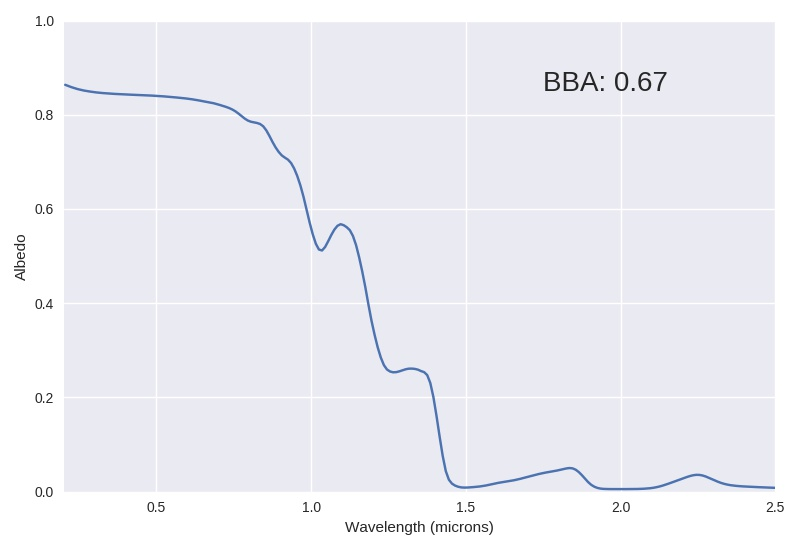
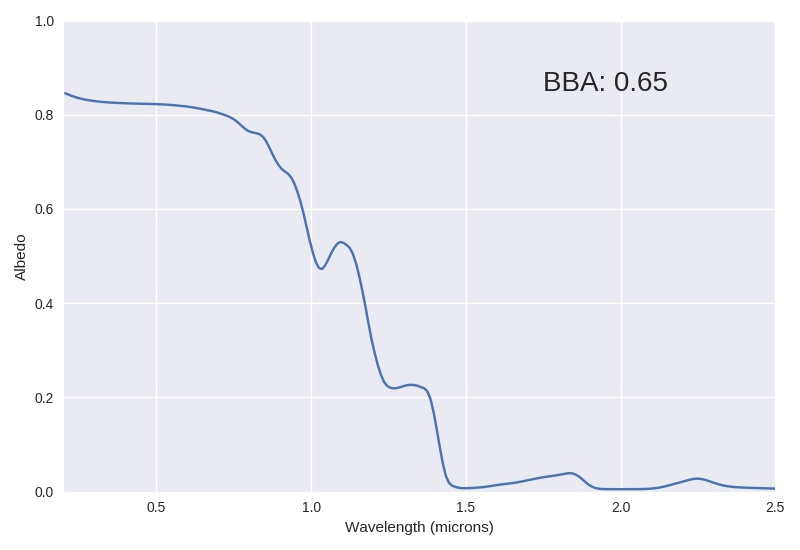
add new fields to app

diff --git a/react-app/src/App.js b/react-app/src/App.js
@@ -9,17 +9,21 @@ function App() {
   const [dz, setThickness] = useState()
   const [reff, setRadius] = useState()
   const [rho, setDensity] = useState()
+  const [bc, setBC] = useState()
+  const [glacier_algae, setGA] = useState()
+  const [snow_algae, setSA] = useState()
+  const [zenith, setZen] = useState()
 
-  // initial figure state
-  //setFigure("./outputs/albedo_default.jpg")
 
   async function runModel(){
     console.log("inside func");
-    console.log(layer_type, dz, reff, rho)
+    console.log(layer_type, dz, reff, rho, bc, glacier_algae, snow_algae, zenith)
 
     await fetch("http://localhost:5000/model", 
     {'method': 'POST', 
-    body: JSON.stringify({'lyr_typ': layer_type, 'dz': dz, 'r_eff': reff, 'rho': rho}),
+    body: JSON.stringify({'lyr_typ': layer_type, 'dz': dz, 
+      'r_eff': reff, 'rho': rho, 'bc': bc, 'glacier_algae': glacier_algae,
+      'snow_algae': snow_algae, 'zenith': zenith}),
     headers: {'Content-Type':'application/json'}
     });
 
@@ -65,7 +69,7 @@ function App() {
     
     
     <li style={{display: 'flex', justifyContent:'center', alignItems:'center', color: 'black',
-    position:"absolute", left:25, top: 180, color: 'black', fontSize: 18}}>
+    position:"absolute", left:25, top: 190, color: 'black', fontSize: 18}}>
       <p>Thickness (meters)&nbsp;&nbsp;&nbsp;&nbsp;</p>
       
     <input 
@@ -80,7 +84,7 @@ function App() {
 
 
     <li style={{display: 'flex', justifyContent:'center', alignItems:'center', color: 'black',
-    position:"absolute", left:25, top: 210, color: 'black', fontSize: 18}}>
+    position:"absolute", left:25, top: 230, color: 'black', fontSize: 18}}>
       <p>Radius (microns)&nbsp;&nbsp;&nbsp;&nbsp;</p>
       
     <input 
@@ -95,7 +99,7 @@ function App() {
 
 
     <li style={{display: 'flex', justifyContent:'center', alignItems:'center', color: 'black',
-    position:"absolute", left:25, top: 240, color: 'black', fontSize: 18}}>
+    position:"absolute", left:25, top: 270, color: 'black', fontSize: 18}}>
       <p>Density (kg/m3)&nbsp;&nbsp;&nbsp;&nbsp;</p>
       
     <input 
@@ -106,6 +110,67 @@ function App() {
       value={rho}
       placeholder="Enter column density"
       onChange={e => setDensity(e.target.value)} />
+      </li>
+
+
+
+    <li style={{display: 'flex', justifyContent:'center', alignItems:'center', color: 'black',
+    position:"absolute", left:25, top: 310, color: 'black', fontSize: 18}}>
+      <p>Black carbon conc (ppb)&nbsp;&nbsp;&nbsp;&nbsp;</p>
+      
+    <input 
+      type="number"
+      min="0"
+      max="100000"
+      step="1"
+      value={bc}
+      placeholder="Enter BC concentration"
+      onChange={e => setBC(e.target.value)} />
+      </li>
+
+
+
+    <li style={{display: 'flex', justifyContent:'center', alignItems:'center', color: 'black',
+    position:"absolute", left:25, top: 350, color: 'black', fontSize: 18}}>
+      <p>Glacier algae conc (cells/mL)&nbsp;&nbsp;&nbsp;&nbsp;</p>
+      
+    <input 
+      type="number"
+      min="0"
+      max="100000"
+      step="1"
+      value={glacier_algae}
+      placeholder="Enter algae concentration"
+      onChange={e => setGA(e.target.value)} />
+      </li>
+
+    
+    <li style={{display: 'flex', justifyContent:'center', alignItems:'center', color: 'black',
+    position:"absolute", left:25, top: 390, color: 'black', fontSize: 18}}>
+      <p>Snow algae conc (cells/mL)&nbsp;&nbsp;&nbsp;&nbsp;</p>
+      
+    <input 
+      type="number"
+      min="0"
+      max="100000"
+      step="1"
+      value={snow_algae}
+      placeholder="Enter algae concentration"
+      onChange={e => setSA(e.target.value)} />
+      </li>
+
+    <li style={{display: 'flex', justifyContent:'center', alignItems:'center', color: 'black',
+    position:"absolute", left:25, top: 430, color: 'black', fontSize: 18}}>
+      <p>Solar zenith angle (degrees) &nbsp;&nbsp;&nbsp;&nbsp;</p>
+      
+    <input 
+      type="number"
+      min="0"
+      max="100000"
+      step="1"
+      value={zenith}
+      placeholder="Enter zenith angle"
+      onChange={e => setZen(e.target.value)} />
       </li>
 
 

diff --git a/react-app/app/app.py b/react-app/app/app.py
@@ -73,6 +73,10 @@ def run_snicar():
     dz = float(request.json['dz'])
     r_eff = int(request.json['r_eff'])
     rho = int(request.json['rho'])
+    bc = int(request.json['bc'])
+    glacier_algae = int(request.json['glacier_algae'])
+    snow_algae = int(request.json['snow_algae'])
+    zenith = int(request.json['zenith'])
 
     print(lyr_typ)
     print(dz)
@@ -97,7 +101,12 @@ def run_snicar():
     ice.rds = [r_eff, r_eff]
     ice.rho = [rho, rho]
 
+    impurities[0].conc = [bc,0]
+    impurities[1].conc = [snow_algae, 0]
+    impurities[2].conc = [glacier_algae, 0]
 
+    illumination.solzen = zenith
+    illumination.calculate_irradiance()
     # validate inputs to ensure no invalid combinations have been chosen
     status = validate_inputs(ice, rt_config, model_config, illumination, impurities)
 
